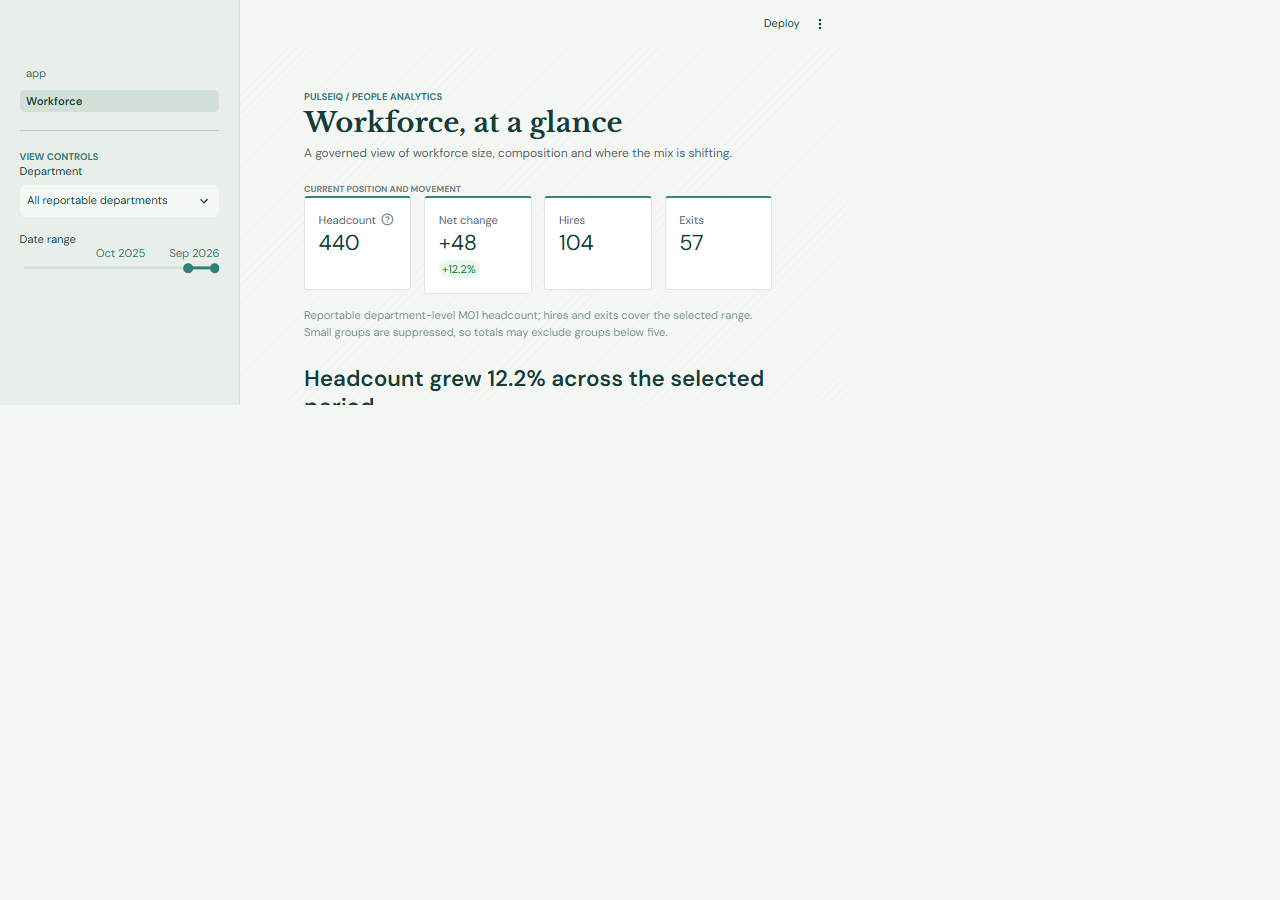
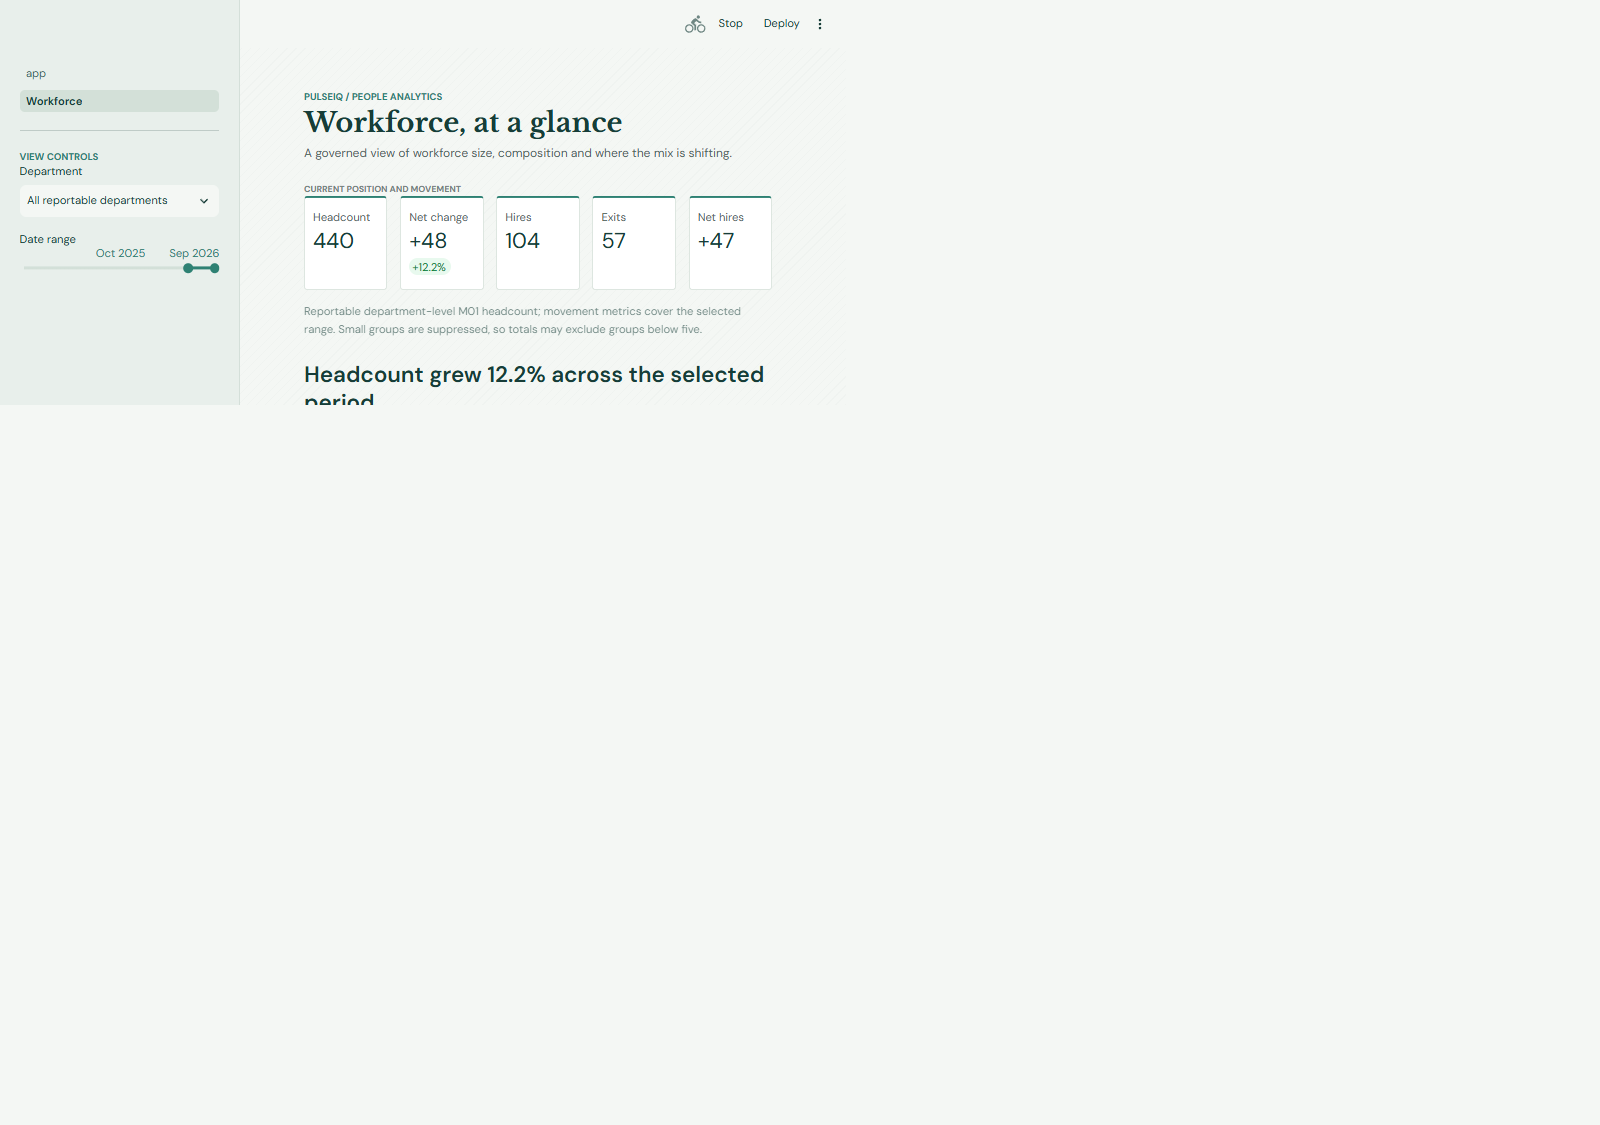
Add net hiring metric to Task 5 dashboard

diff --git a/dashboard.py b/dashboard.py
@@ -37,6 +37,11 @@ def load_dashboard_data(database_path: str) -> tuple[pd.DataFrame, ...]:
             FROM metrics.m03_exits
             WHERE data_status = 'AVAILABLE'
         """).fetchdf()
+        net_hiring = connection.execute("""
+            SELECT period_start, department_id, metric_value AS net_hires
+            FROM metrics.m29_net_hiring
+            WHERE data_status = 'AVAILABLE'
+        """).fetchdf()
         locations = connection.execute("""
             SELECT period_start, department_id, breakdown_id, metric_value AS headcount
             FROM metrics.dashboard_headcount_by_location_tier
@@ -54,9 +59,9 @@ def load_dashboard_data(database_path: str) -> tuple[pd.DataFrame, ...]:
     finally:
         connection.close()
 
-    for frame in (headcount, hires, exits, locations, work_modes):
+    for frame in (headcount, hires, exits, net_hiring, locations, work_modes):
         frame["period_start"] = pd.to_datetime(frame["period_start"])
-    return headcount, hires, exits, locations, work_modes, departments
+    return headcount, hires, exits, net_hiring, locations, work_modes, departments
 
 
 def _finding_title(frame: pd.DataFrame, label: str) -> tuple[str, str]:
@@ -89,8 +94,8 @@ def render_dashboard() -> None:
         .eyebrow { color: var(--teal); font: 700 12px 'DM Sans', sans-serif; text-transform: uppercase; letter-spacing: 0 !important; }
         .hero-title { font: 700 34px 'Libre Baskerville', Georgia, serif; color: var(--ink); margin: 4px 0 6px; }
         .hero-copy { color: #53665F; font-size: 15px; margin-bottom: 24px; }
-        [data-testid="stMetric"] { background: #FFFFFF; border: 1px solid #DCE5DF; border-top: 3px solid var(--teal); padding: 15px 17px; border-radius: 4px; min-height: 118px; }
-        [data-testid="stMetricLabel"] { color: #53665F; font-size: 13px; }
+        [data-testid="stMetric"] { background: #FFFFFF; border: 1px solid #DCE5DF; border-top: 3px solid var(--teal); padding: 12px 10px; border-radius: 4px; min-height: 118px; }
+        [data-testid="stMetricLabel"] { color: #53665F; font-size: 11px; }
         [data-testid="stMetricValue"] { color: var(--ink); font-size: 27px; }
         [data-testid="stMetricDelta"] svg { display: none; }
         .finding { border-left: 3px solid var(--amber); padding: 9px 12px; margin: 2px 0 23px; color: #394C45; background: rgba(255,255,255,.66); font-size: 13px; }
@@ -101,7 +106,7 @@ def render_dashboard() -> None:
     """, unsafe_allow_html=True)
 
     try:
-        headcount, hires, exits, locations, work_modes, departments = load_dashboard_data(str(DATABASE))
+        headcount, hires, exits, net_hiring, locations, work_modes, departments = load_dashboard_data(str(DATABASE))
     except Exception as exc:
         st.error("The governed workforce views are not ready. Run `python metrics.py` after the ETL and warehouse builds.")
         st.exception(exc)
@@ -141,6 +146,7 @@ def render_dashboard() -> None:
     trend = scope(headcount)
     hires_period = scope(hires)
     exits_period = scope(exits)
+    net_hiring_period = scope(net_hiring)
     if trend.empty:
         st.warning("No reportable rows match these filters.")
         return
@@ -151,14 +157,16 @@ def render_dashboard() -> None:
     change_pct = (100 * change / first_value) if first_value else 0
     total_hires = float(hires_period["hires"].sum())
     total_exits = float(exits_period["exits"].sum())
+    total_net_hires = float(net_hiring_period["net_hires"].sum())
 
     st.markdown('<div class="section-label">Current position and movement</div>', unsafe_allow_html=True)
-    metric_columns = st.columns(4)
-    metric_columns[0].metric("Headcount", f"{int(latest_value):,}", help="Sum of departments that meet the official M01 minimum group size of five.")
+    metric_columns = st.columns(5)
+    metric_columns[0].metric("Headcount", f"{int(latest_value):,}")
     metric_columns[1].metric("Net change", f"{change:+,.0f}", f"{change_pct:+.1f}%")
     metric_columns[2].metric("Hires", f"{int(total_hires):,}")
     metric_columns[3].metric("Exits", f"{int(total_exits):,}")
-    st.caption("Reportable department-level M01 headcount; hires and exits cover the selected range. Small groups are suppressed, so totals may exclude groups below five.")
+    metric_columns[4].metric("Net hires", f"{int(total_net_hires):+,}")
+    st.caption("Reportable department-level M01 headcount; movement metrics cover the selected range. Small groups are suppressed, so totals may exclude groups below five.")
 
     direction = "grew" if change > 0 else "declined" if change < 0 else "was unchanged"
     direction_text = f"{abs(change_pct):.1f}%" if change else "0%"

diff --git a/metrics.py b/metrics.py
@@ -53,6 +53,7 @@ METRIC_VIEWS = {
     "M26": "m26_anomaly_flag_rate",
     "M27": "m27_high_risk_share",
     "M28": "m28_forecast_error_mape",
+    "M29": "m29_net_hiring",
 }
 
 def write_csv(path: Path, rows: list[dict[str, Any]]) -> None:
@@ -111,9 +112,9 @@ def check_metrics(connection: Any) -> tuple[list[dict[str, Any]], list[dict[str,
         "SELECT * FROM metrics.metric_catalog ORDER BY metric_id"
     ).fetchdf()
     catalog_rows = catalog.to_dict(orient="records")
-    if len(catalog_rows) != 28 or {row["metric_id"] for row in catalog_rows} != set(METRIC_VIEWS):
+    if len(catalog_rows) != len(METRIC_VIEWS) or {row["metric_id"] for row in catalog_rows} != set(METRIC_VIEWS):
         raise AssertionError(
-            f"Expected exactly 28 catalog entries; found {len(catalog_rows)}"
+            f"Expected exactly {len(METRIC_VIEWS)} catalog entries; found {len(catalog_rows)}"
         )
     write_csv(CATALOG_FILE, catalog_rows)
 
@@ -297,6 +298,29 @@ def hand_check_rows(connection: Any) -> list[dict[str, Any]]:
             "M22", "Task completion rate", f"{period} / {team_id} / {sprint_id}",
             f"{int(done)} done / {int(planned)} non-cancelled tasks x 100",
             done, planned, Decimal(view_value), 2, calculated_override=completion,
+        )
+    )
+
+    net_hiring_row = connection.execute("""
+        SELECT period_start, department_id, metric_value
+        FROM metrics.m29_net_hiring
+        ORDER BY period_start, department_id
+        LIMIT 1
+    """).fetchone()
+    period, department, view_value = net_hiring_row
+    hires, exits = connection.execute(
+        """
+        SELECT hires, exits FROM warehouse.fact_headcount_monthly
+        WHERE month_start_date = ? AND department_id = ?
+        """,
+        [period, department],
+    ).fetchone()
+    net_hires = decimal_value(hires) - decimal_value(exits)
+    checks.append(
+        hand_check(
+            "M29", "Net hires", f"{period} / {department}",
+            f"fact_headcount_monthly source row: hires={hires} - exits={exits}",
+            net_hires, Decimal(1), Decimal(view_value), 0,
         )
     )
     return checks

diff --git a/docs/task4-metric-layer.md b/docs/task4-metric-layer.md
@@ -10,8 +10,8 @@ python warehouse.py
 python metrics.py
 ```
 
-The SQL source is `metric_views.sql`; the builder registers the 28 official
-views and `metrics.metric_catalog` in `pulseiq.duckdb`. Each official view has
+The SQL source is `metric_views.sql`; the builder registers the 29 official
+views, supporting views, and `metrics.metric_catalog` in `pulseiq.duckdb`. Each official view has
 the columns `period_start`, `department_id`, `breakdown_id`, `group_size`,
 `numerator`, `denominator`, `metric_value`, `unit`, and `data_status`.
 Consumers should use `metric_value` and preserve the view's grain and output
@@ -61,6 +61,7 @@ direction, caveat, and privacy rule.
 | M26 | `metrics.m26_anomaly_flag_rate` | Anomaly source/month |
 | M27 | `metrics.m27_high_risk_share` | Department/latest scoring date |
 | M28 | `metrics.m28_forecast_error_mape` | Forecast department/month |
+| M29 | `metrics.m29_net_hiring` | Department/month |
 
 ## Governed input and privacy rules
 
@@ -92,10 +93,10 @@ Those rows are labelled `AWAITING_ACTUAL` and have a null `metric_value`;
 they are not presented as a zero forecast error. This supplied dataset's 66
 forecast rows are all awaiting actuals, consistent with the catalog caveat.
 
-## Five hand checks
+## Six hand checks
 
 `metric_hand_checks.csv` records the inputs, hand calculation, view output,
-difference, and pass status. The five independently checked values are:
+difference, and pass status. The six independently checked values are:
 
 | Metric | Grain | Hand-calculated value | View value |
 |---|---|---:|---:|
@@ -104,6 +105,7 @@ difference, and pass status. The five independently checked values are:
 | M09 employer payroll cost | 2025-04-30 / D01 | ₹21,428,108.75 | ₹21,428,108.75 |
 | M16 revenue | 2025-04 / account 4001 | ₹41,824,400.00 | ₹41,824,400.00 |
 | M22 task completion | 2025-04-07 / T01 / SP-01 | 50 / 55 × 100 = 90.91% | 90.91% |
+| M29 net hires | 2020-01 / D01 | 1 hire - 2 exits = -1 | -1 |
 
 ### Attrition denominator decision
 
@@ -126,9 +128,9 @@ headcount was 61, and ending headcount was 60:
 
 ## Evidence and verification
 
-- `metric_catalog.csv`: all 28 metric definitions and view mappings.
-- `metric_hand_checks.csv`: five hand calculations matching the views.
-- `metric_view_validation.csv`: the 28 view names, row counts, status, and
+- `metric_catalog.csv`: all 29 metric definitions and view mappings.
+- `metric_hand_checks.csv`: six hand calculations matching the views.
+- `metric_view_validation.csv`: the 29 view names, row counts, status, and
   below-minimum group audit.
 - Running `python metrics.py` reports the row count of each view and fails if a
   view is missing, returns no rows, omits a catalog entry, or leaks a group

diff --git a/docs/task5-evidence.md b/docs/task5-evidence.md
@@ -11,7 +11,8 @@
 ## Evidence
 
 Run the app with `streamlit run app.py`. The dashboard reads only the official
-`metrics.m01_headcount`, `metrics.m02_hires`, and `metrics.m03_exits` views,
+`metrics.m01_headcount`, `metrics.m02_hires`, `metrics.m03_exits`, and
+`metrics.m29_net_hiring` views,
 plus metric-layer views for the department labels and suppressed workforce
 breakdowns. No raw or warehouse table is queried by the app.
 
@@ -22,3 +23,20 @@ be lower than reportable department headcount.
 
 Screenshots: `task5-workforce-dashboard.png` (summary and trend) and
 `task5-workforce-breakdowns.png` (department mix).
+
+## Mini challenge: M29 net hires
+
+Definition: department-month hires minus exits. Positive values indicate net
+hiring. It excludes transfers and inherits the M02/M03 five-person minimum.
+The metric view combines `metrics.m02_hires` and `metrics.m03_exits`; the app
+sums its reportable values over the selected department and date range.
+
+Hand check: the raw `fact_headcount_monthly.csv` row for D01 / 2020-01 has
+1 hire and 2 exits. Therefore M29 is $1 - 2 = -1$, matching
+`metrics.m29_net_hiring` for that department-month. The automated comparison is
+recorded in `metric_hand_checks.csv`.
+
+Trace the number from dashboard KPI to M29, then to M02 hires and M03 exits,
+and finally to the department-month row in the raw headcount file. In a star
+schema, fact tables store measurements at a defined grain and dimension tables
+provide descriptive context such as department, employee, location, or date.

diff --git a/README.md b/README.md
@@ -93,8 +93,8 @@ After rebuilding the Task 1 inputs and Task 2 warehouse, run:
 python metrics.py
 ```
 
-This creates 28 reusable views in the DuckDB `metrics` schema, plus
-`metrics.metric_catalog`. Every official view uses the same aggregate output
+This creates 29 official metric views in the DuckDB `metrics` schema, plus
+supporting views and `metrics.metric_catalog`. Every official view uses the same aggregate output
 shape and applies its catalog minimum group size before returning rows.
 Payroll views use the validated warehouse and a helper that excludes unknown
 employee keys and collapses exact duplicate payroll records; raw and Task 1
